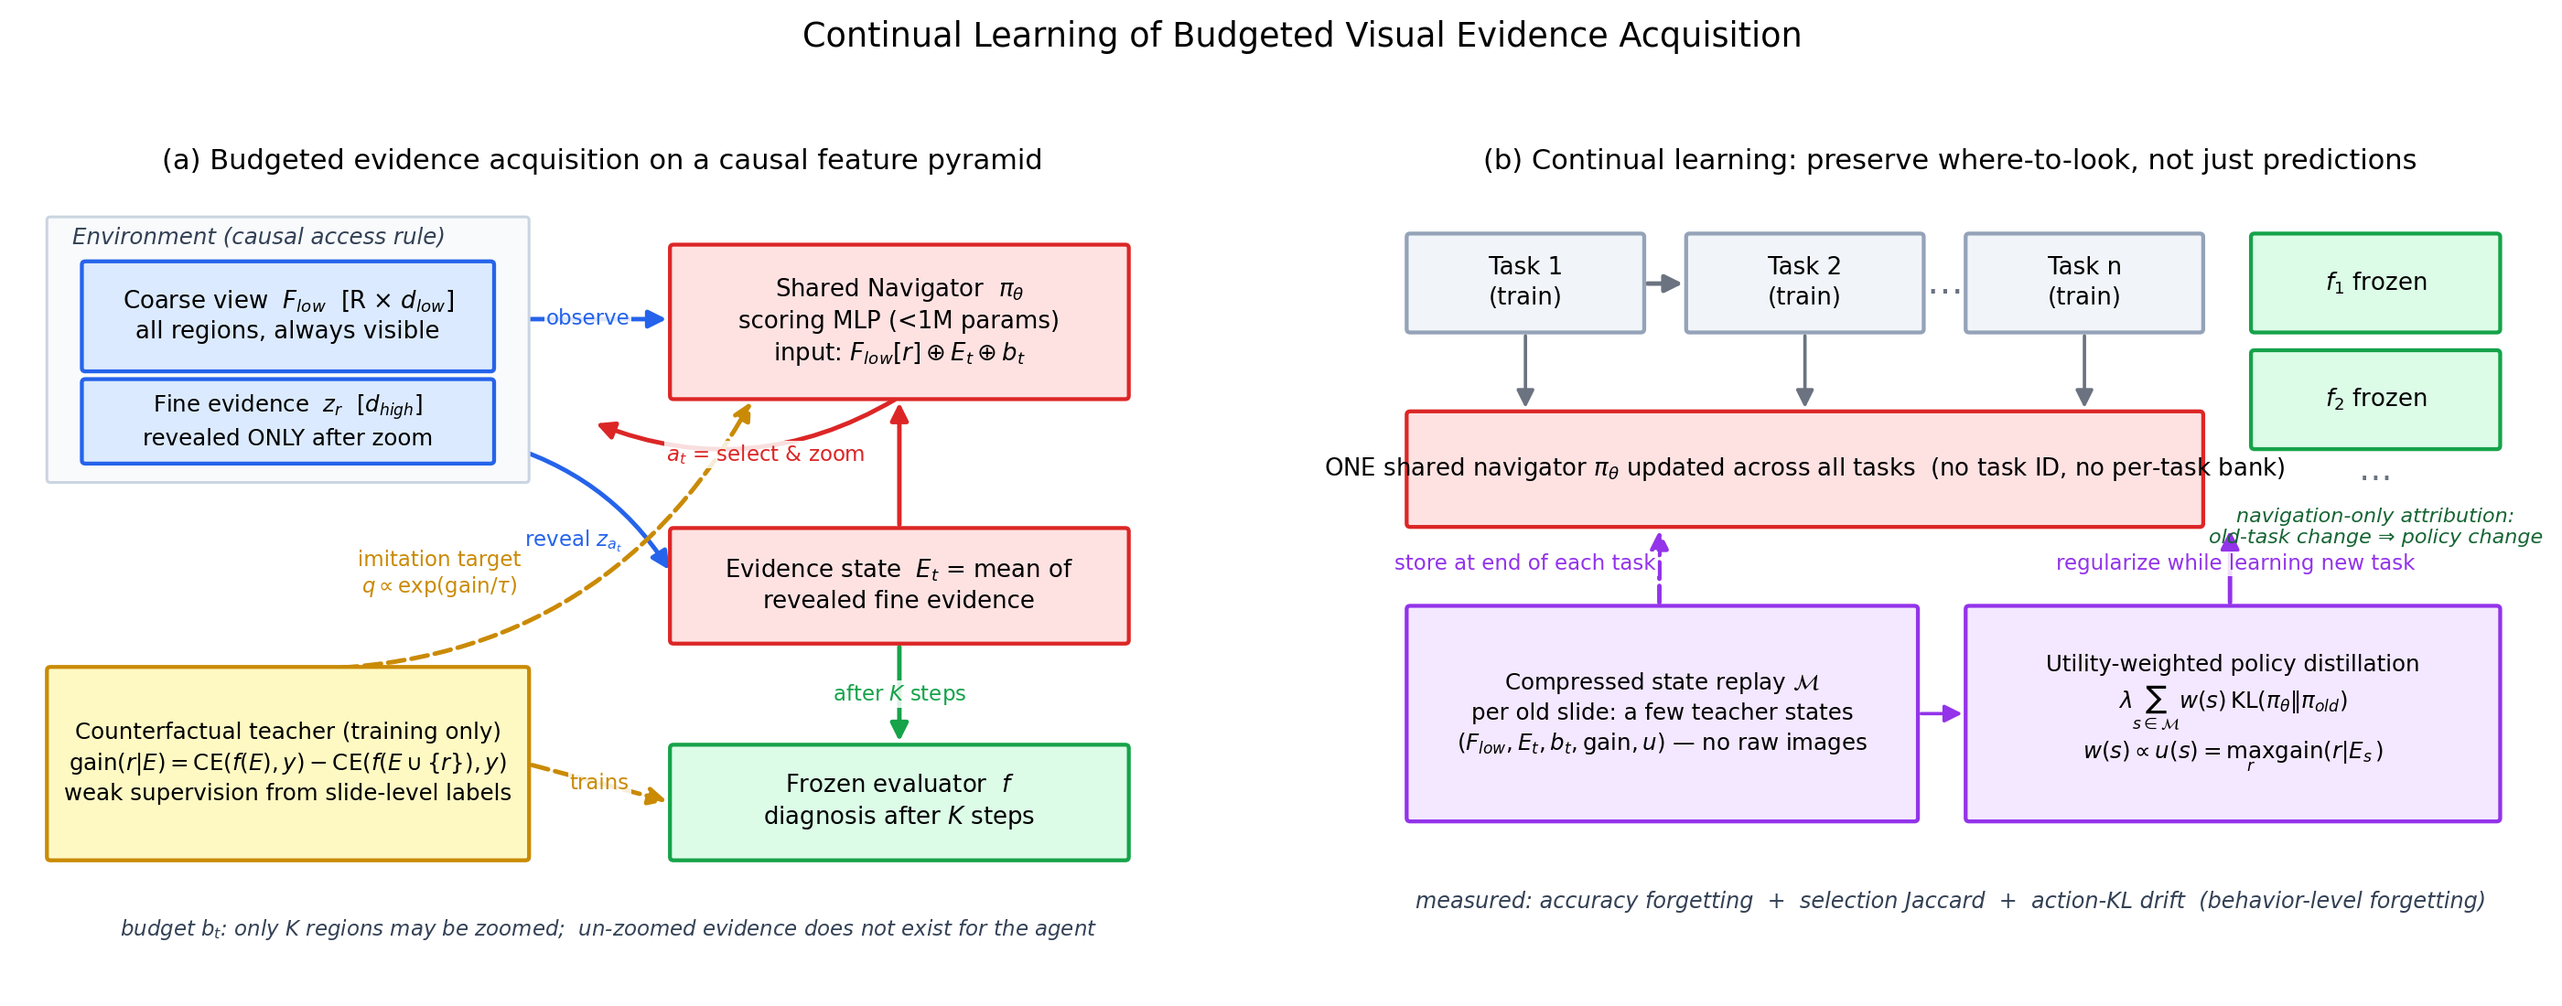
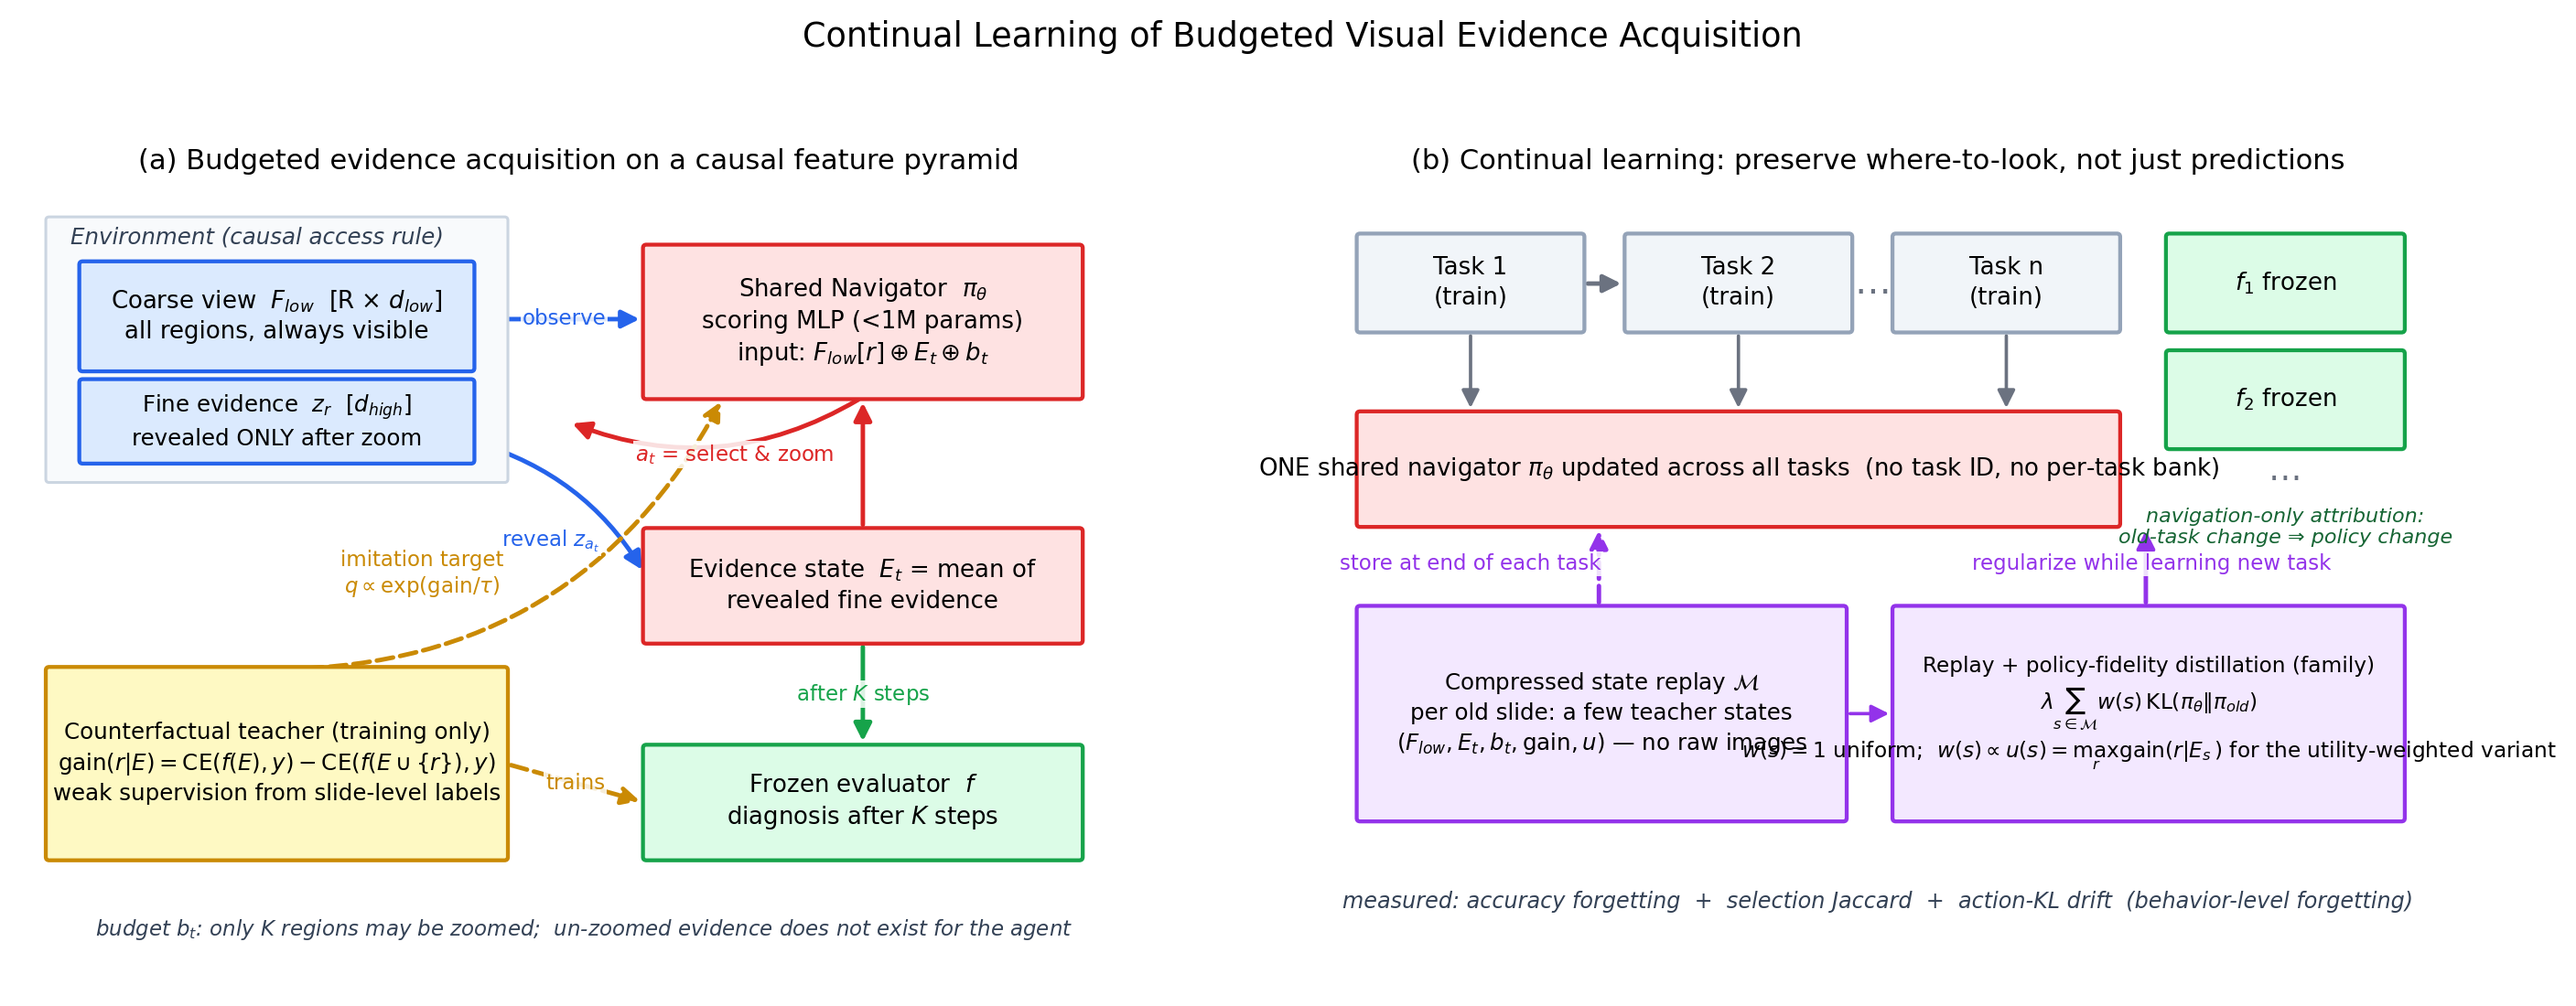
Regenerate Fig.1 with corrected v0.292 method labels.
The architecture figure was stale relative to the renamed CL mechanism box; render it from the updated make_fig1.py so the diagram matches the non-overclaiming terminology.

diff --git a/scripts/make_fig1.py b/scripts/make_fig1.py
@@ -145,11 +145,12 @@ def panel_b(ax):
         "$(F_{low}, E_t, b_t, \\mathrm{gain}, u)$ — no raw images",
         C_CL, C_CL_E, fs=8)
     box(ax, 5.15, 1.5, 4.55, 1.9,
-        "Utility-Weighted Replay Distillation\n"
+        "Replay + policy-fidelity distillation (family)\n"
         "$\\lambda \\sum_{s \\in \\mathcal{M}} w(s)\\,"
         "\\mathrm{KL}(\\pi_\\theta \\| \\pi_{old})$\n"
-        "$w(s) \\propto u(s) = \\max_r \\mathrm{gain}(r|E_s)$",
-        C_CL, C_CL_E, fs=8)
+        "$w(s){=}1$ uniform;  $w(s) \\propto u(s){=}\\max_r \\mathrm{gain}(r|E_s)$ "
+        "for the utility-weighted variant",
+        C_CL, C_CL_E, fs=7.6)
     arrow(ax, (2.5, 3.4), (2.5, 4.15), "store at end of each task", color=C_CL_E,
           ls="--", tx=1.35, ty=3.8)
     arrow(ax, (7.4, 3.4), (7.4, 4.15), "regularize while learning new task",
